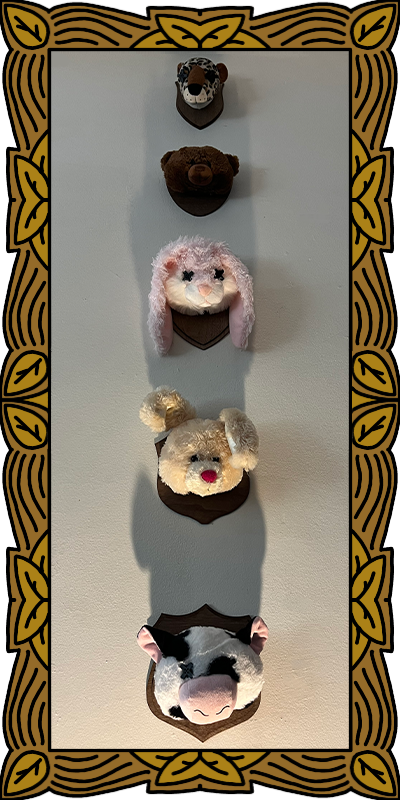
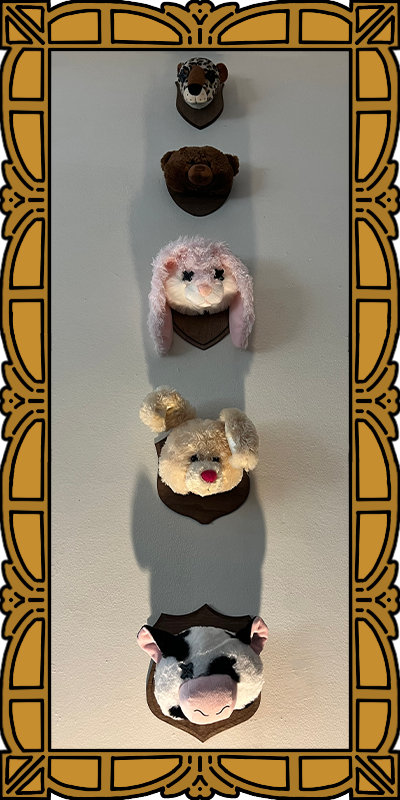
Gallery page thumbnails and links

Changed region(s): [[0.0, 0.0, 1.0, 1.0]]

diff --git a/index.html b/index.html
@@ -35,46 +35,110 @@
     <section id="gallery" class="gallery-wall">
       <!-- Row 1 -->
       <div class="gallery-item small tall">
-        <img src="IMG/TwoFrame.png" alt="Small Frame" class="responsive-img">
+        <a href="unity-odonata-odyssey.html">
+          <img src="gallery/Odonata_TwoFrame.png" title="Odonata Odyssey (2025)" alt="Odonata Odyssey (2025)"
+            class="responsive-img">
+        </a>
       </div>
       <div class="gallery-item small">
-        <img src="gallery/Trophies_TallFrame.png" title="Trophies (2025)" alt="Trophies (2025)" class="responsive-img">
+        <a href="physical-trophies.html">
+          <img src="gallery/Trophies_TallFrame.png" title="Trophies (2025)" alt="Trophies (2025)"
+            class="responsive-img">
+        </a>
       </div>
       <div class="gallery-item large">
-        <a href="unity-maze-blobber.html">
-          <img src="gallery/BlobBob_Frame1.png" title="Maze Blobber (2024)" alt="Maze Blobber (2024)"
+        <a href="unity-control-deck.html">
+          <img src="gallery/ControlDeck_ThreeFrame.png" title="Control Deck (2025)" alt="Control Deck (2025)"
             class="responsive-img">
         </a>
       </div>
 
       <!-- Row 2 -->
       <div class="gallery-item wide">
-        <img src="gallery/Crayons_WideFrame.png" alt="Standard Crayons (2025)" class="responsive-img">
+        <a href="unity-boid-bugs.html">
+          <img src="gallery/BoidBugs_WideFrame.png" title="Boid Bugs (2025)" alt="Boid Bugs (2025)"
+            class="responsive-img">
+        </a>
       </div>
       <div class="gallery-item small">
-        <img src="IMG/Frame2.png" alt="Small Frame" class="responsive-img">
+        <a href="unity-maze-blobber.html">
+          <img src="gallery/BlobBob_Frame2.png" title="Maze Blobber (2024)" alt="Maze Blobber (2024)"
+            class="responsive-img">
+        </a>
       </div>
       <div class="gallery-item small">
-        <img src="IMG/Frame1.png" alt="Small Frame" class="responsive-img">
+        <a href="adobe-viewfinder.html">
+          <img src="gallery/Viewfinder_Frame3.png" title="Viewfinder (2022)" alt="Viewfinder (2022)"
+            class="responsive-img">
+        </a>
+      </div>
+
+      <!-- Row 2.5 -->
+      <div class="gallery-item wide">
+        <a href="td-rewind.html">
+          <img src="gallery/Rewind_WideFrame.png" title="Rewind (2025)" alt="Rewind (2025)"
+            class="responsive-img">
+        </a>
+      </div>
+      <div class="gallery-item wide">
+        <a href="physical-standard-crayons.html">
+          <img src="gallery/Crayons_WideFrame.png" title="Standard Crayons (2025)" alt="Standard Crayons (2025)"
+            class="responsive-img">
+        </a>
       </div>
 
       <!-- Row 3 -->
       <div class="gallery-item large">
-        <img src="IMG/Frame1.png" alt="Large Frame" class="responsive-img">
+        <a href="adobe-jazz-touch-of-class.html">
+          <img src="gallery/Jazz_Frame3.png" title="Jazz (2023)" alt="Jazz (2023)"
+            class="responsive-img">
+        </a>
       </div>
-      <div class="gallery-item large">
-        <img src="IMG/ThreeFrame.png" alt="Large Frame" class="responsive-img">
+      <div class="gallery-item small tall">
+        <a href="adobe-portfolio-catalog-2023.html">
+          <img src="gallery/2023portfolio_TallFrame.png" title="art for your bathroom (2023)" alt="art for your bathroom (2023)"
+            class="responsive-img">
+        </a>
+      </div>
+      <div class="gallery-item small tall">
+        <a href="adobe-silkworm.html">
+          <img src="gallery/Silkworm_TwoFrame.png" title="Silkworm (2025)" alt="Silkworm (2025)"
+            class="responsive-img">
+        </a>
+      </div>
+
+      <!-- Row 3.5 -->
+      <div class="gallery-item wide">
+        <a href="td-bloodwork.html">
+          <img src="gallery/Bloodwork_WideFrame.png" title="Bloodwork (2025)" alt="Bloodwork (2025)"
+            class="responsive-img">
+        </a>
+      </div>
+      <div class="gallery-item wide">
+        <a href="adobe-something-fishy.html">
+          <img src="gallery/SomethingFishy_WideFrame.png" title="Something Fishy (2023)" alt="Something Fishy (2023)"
+            class="responsive-img">
+        </a>
       </div>
 
       <!-- Row 4 -->
       <div class="gallery-item large">
-        <img src="IMG/Frame2.png" alt="Large Frame" class="responsive-img">
+        <a href="physical-unethically-sourced.html">
+          <img src="gallery/Unethically_Frame1.png" title="Unethically Sourced (2025)" alt="Unethically Sourced (2025)"
+            class="responsive-img">
+        </a>
       </div>
       <div class="gallery-item small tall">
-        <img src="IMG/TallFrame3.png" alt="Small Frame" class="responsive-img">
+        <a href="td-upward-spiral.html">
+          <img src="gallery/Upward_TallFrame.png" title="Upward Spiral (2025)" alt="Upward Spiral (2025)"
+            class="responsive-img">
+        </a>
       </div>
       <div class="gallery-item small tall">
-        <img src="IMG/TallFrame.png" alt="Small Frame" class="responsive-img">
+        <a href="web-chimp-champ-chomp.html">
+          <img src="gallery/ChimpChamp_TallFrame.png" title="Chimp Champ Chomp (2022)" alt="Chimp Champ Chomp (2022)"
+            class="responsive-img">
+        </a>
       </div>
     </section>
 
@@ -91,7 +155,7 @@
     <!-- About -->
     <section id="about">
       <a href="about.html">
-        <img src="IMG/About_frame.png" alt="About" class="responsive-img">
+        <img src="IMG/aboutimage1.png" alt="About" class="responsive-img">
       </a>
     </section>
 

diff --git a/unity.html b/unity.html
@@ -36,7 +36,7 @@
             <div class="skills-row">
                 <div class="skills-image">
                     <a href="unity-control-deck.html">
-                        <img src="IMG/unity/control_deck_thumb.png" alt="Control Deck">
+                        <img src="portfolio/ControlDeck_Frame2.png" alt="Control Deck">
                     </a>
                 </div>
 
@@ -56,50 +56,8 @@
             <!-- PROJECT ROW -->
             <div class="skills-row">
                 <div class="skills-image">
-                    <a href="unity-lerp-heart.html">
-                        <img src="IMG/unity/lerp_heart_thumb.png" alt="Lerp Heart">
-                    </a>
-                </div>
-
-                <div class="skills-text">
-                    <h2>
-                        <a href="unity-lerp-heart.html" class="project-link">
-                            Lerp Heart
-                        </a>
-                    </h2>
-                    <p>
-                        An experimental animation system exploring interpolation, timing,
-                        and emotional motion through code-driven transformations.
-                    </p>
-                </div>
-            </div>
-
-            <!-- PROJECT ROW -->
-            <div class="skills-row">
-                <div class="skills-image">
-                    <a href="unity-thunderings.html">
-                        <img src="IMG/unity/thunderings_thumb.png" alt="Thunderings of the Merciless">
-                    </a>
-                </div>
-
-                <div class="skills-text">
-                    <h2>
-                        <a href="unity-thunderings.html" class="project-link">
-                            Thunderings of the Merciless
-                        </a>
-                    </h2>
-                    <p>
-                        A combat-focused prototype emphasizing impact, feedback,
-                        and audio-reactive effects within a realtime Unity environment.
-                    </p>
-                </div>
-            </div>
-
-            <!-- PROJECT ROW -->
-            <div class="skills-row">
-                <div class="skills-image">
                     <a href="unity-odonata-odyssey.html">
-                        <img src="IMG/unity/odonata_odyssey_thumb.png" alt="Odonata Odyssey">
+                        <img src="portfolio/Odonata_Frame1.png" alt="Odonata Odyssey">
                     </a>
                 </div>
 
@@ -120,7 +78,7 @@
             <div class="skills-row">
                 <div class="skills-image">
                     <a href="unity-boid-bugs.html">
-                        <img src="IMG/unity/boid_bugs_thumb.png" alt="Boid Bugs">
+                        <img src="portfolio/BoidBugs_Frame3.png" alt="Boid Bugs">
                     </a>
                 </div>
 
@@ -141,7 +99,7 @@
             <div class="skills-row">
                 <div class="skills-image">
                     <a href="unity-boid-bugs-VR.html">
-                        <img src="IMG/unity/boid_bugs_vr_thumb.png" alt="Boid Bugs VR">
+                        <img src="portfolio/BoidVR_Frame2.png" alt="Boid Bugs VR">
                     </a>
                 </div>
 
@@ -158,11 +116,53 @@
                 </div>
             </div>
 
+            <!-- PROJECT ROW -->
+            <div class="skills-row">
+                <div class="skills-image">
+                    <a href="unity-thunderings.html">
+                        <img src="portfolio/Thunderings_Frame1.png" alt="Thunderings of the Merciless">
+                    </a>
+                </div>
+
+                <div class="skills-text">
+                    <h2>
+                        <a href="unity-thunderings.html" class="project-link">
+                            Thunderings of the Merciless
+                        </a>
+                    </h2>
+                    <p>
+                        A combat-focused prototype emphasizing impact, feedback,
+                        and audio-reactive effects within a realtime Unity environment.
+                    </p>
+                </div>
+            </div>
+
+            <!-- PROJECT ROW -->
+            <div class="skills-row">
+                <div class="skills-image">
+                    <a href="unity-lerp-heart.html">
+                        <img src="portfolio/LerpHeart_Frame2.png" alt="Lerp Heart">
+                    </a>
+                </div>
+
+                <div class="skills-text">
+                    <h2>
+                        <a href="unity-lerp-heart.html" class="project-link">
+                            Lerp Heart
+                        </a>
+                    </h2>
+                    <p>
+                        An experimental animation system exploring interpolation, timing,
+                        and emotional motion through code-driven transformations.
+                    </p>
+                </div>
+            </div>
+
             <!-- PROJECT ROW (LAST) -->
             <div class="skills-row">
                 <div class="skills-image">
                     <a href="unity-maze-blobber.html">
-                        <img src="IMG/unity/maze_blobber_thumb.png" alt="Maze Blobber">
+                        <img src="portfolio/BlobBob_Frame3.png" alt="Maze Blobber">
                     </a>
                 </div>
 

diff --git a/about.html b/about.html
@@ -34,7 +34,7 @@
 
       <!-- LEFT: IMAGE -->
       <div class="about-image">
-        <img src="IMG/about_portrait.png" alt="Portrait of Holden Denyer">
+        <img src="IMG/aboutimage2.png" alt="Portrait of Holden Denyer">
       </div>
 
       <!-- RIGHT: TEXT -->
@@ -67,18 +67,24 @@
         <ul class="about-links">
           <li>
             <strong>Email:</strong>
-            <a href="mailto:holden.denyer@gmail.com">holden.denyer@gmail.com</a>
+            <a href="mailto:holdendenyer@gmail.com">holdendenyer@gmail.com</a>
           </li>
           <li>
             <strong>LinkedIn:</strong>
-            <a href="https://www.linkedin.com/" target="_blank" rel="noopener">
+            <a href="https://www.linkedin.com/in/holdendenyer" target="_blank" rel="noopener">
               linkedin.com/in/holdendenyer
             </a>
           </li>
           <li>
+            <strong>GitHub:</strong>
+            <a href="https://www.github.com/hdenyer" target="_blank" rel="noopener">
+              github.com/hdenyer
+            </a>
+          </li>
+          <li>
             <strong>YouTube:</strong>
-            <a href="https://www.youtube.com/" target="_blank" rel="noopener">
-              youtube.com/@holdendenyer
+            <a href="https://www.youtube.com/@hdenyer401" target="_blank" rel="noopener">
+              youtube.com/@hdenyer
             </a>
           </li>
         </ul>

diff --git a/CSS/style.css b/CSS/style.css
@@ -374,7 +374,6 @@ body {
   width: 100%;
   height: auto;
   display: block;
-  border: 4px solid #000;
 }
 
 /* Text */
@@ -520,11 +519,13 @@ body {
   margin-top: 0;
   margin-bottom: 12px;
   letter-spacing: 0.05em;
+  color: #f5e9d6;
 }
 
 .about-text p {
   margin-bottom: 16px;
   line-height: 1.6;
+  color: #f5e9d6;
 }
 
 .about-links {
